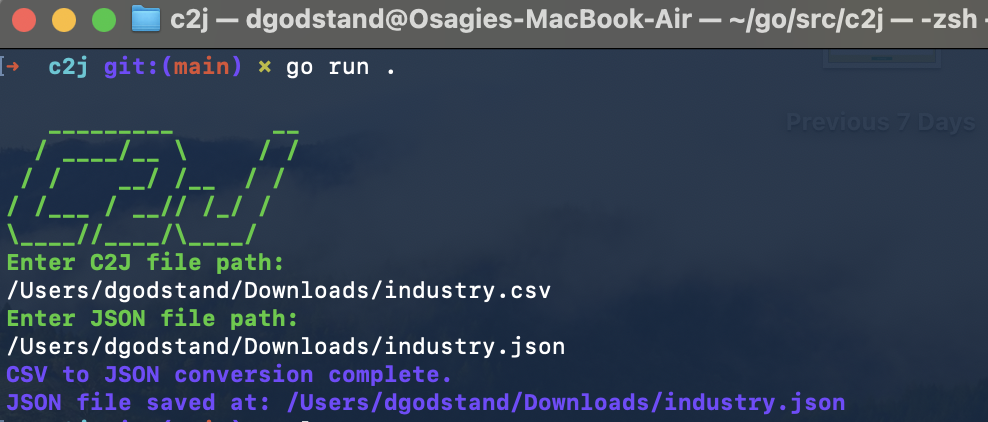
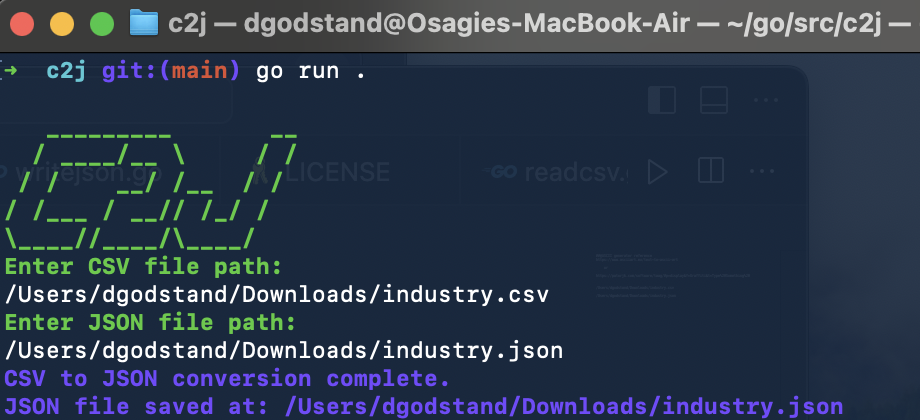
feat: C2J complete

Changed region(s): [[0.0, 0.3095, 0.913, 1.0], [0.0, 0.0, 1.0, 0.2167]]

diff --git a/main.go b/main.go
@@ -21,7 +21,7 @@ func main() {
 \____//____/\____/   
 `
 
-	fmt.Printf("%s%sEnter C2J file path:%s\n", greenColor, c2jArt, resetColor)
+	fmt.Printf("%s%sEnter CSV file path:%s\n", greenColor, c2jArt, resetColor)
 	var csvFilePath string
 	_, err := fmt.Scanln(&csvFilePath)
 	if err != nil {

diff --git a/README.md b/README.md
@@ -5,5 +5,5 @@ A Terminal tool for converting CSV to JSON file formats.
 -         go run .
 
 
-![C2J](https://github.com/osag1e/c2j/blob/main/image/c2j.png)
+![C2J](https://github.com/osag1e/c2j/blob/main/image/C2J.png)
 
